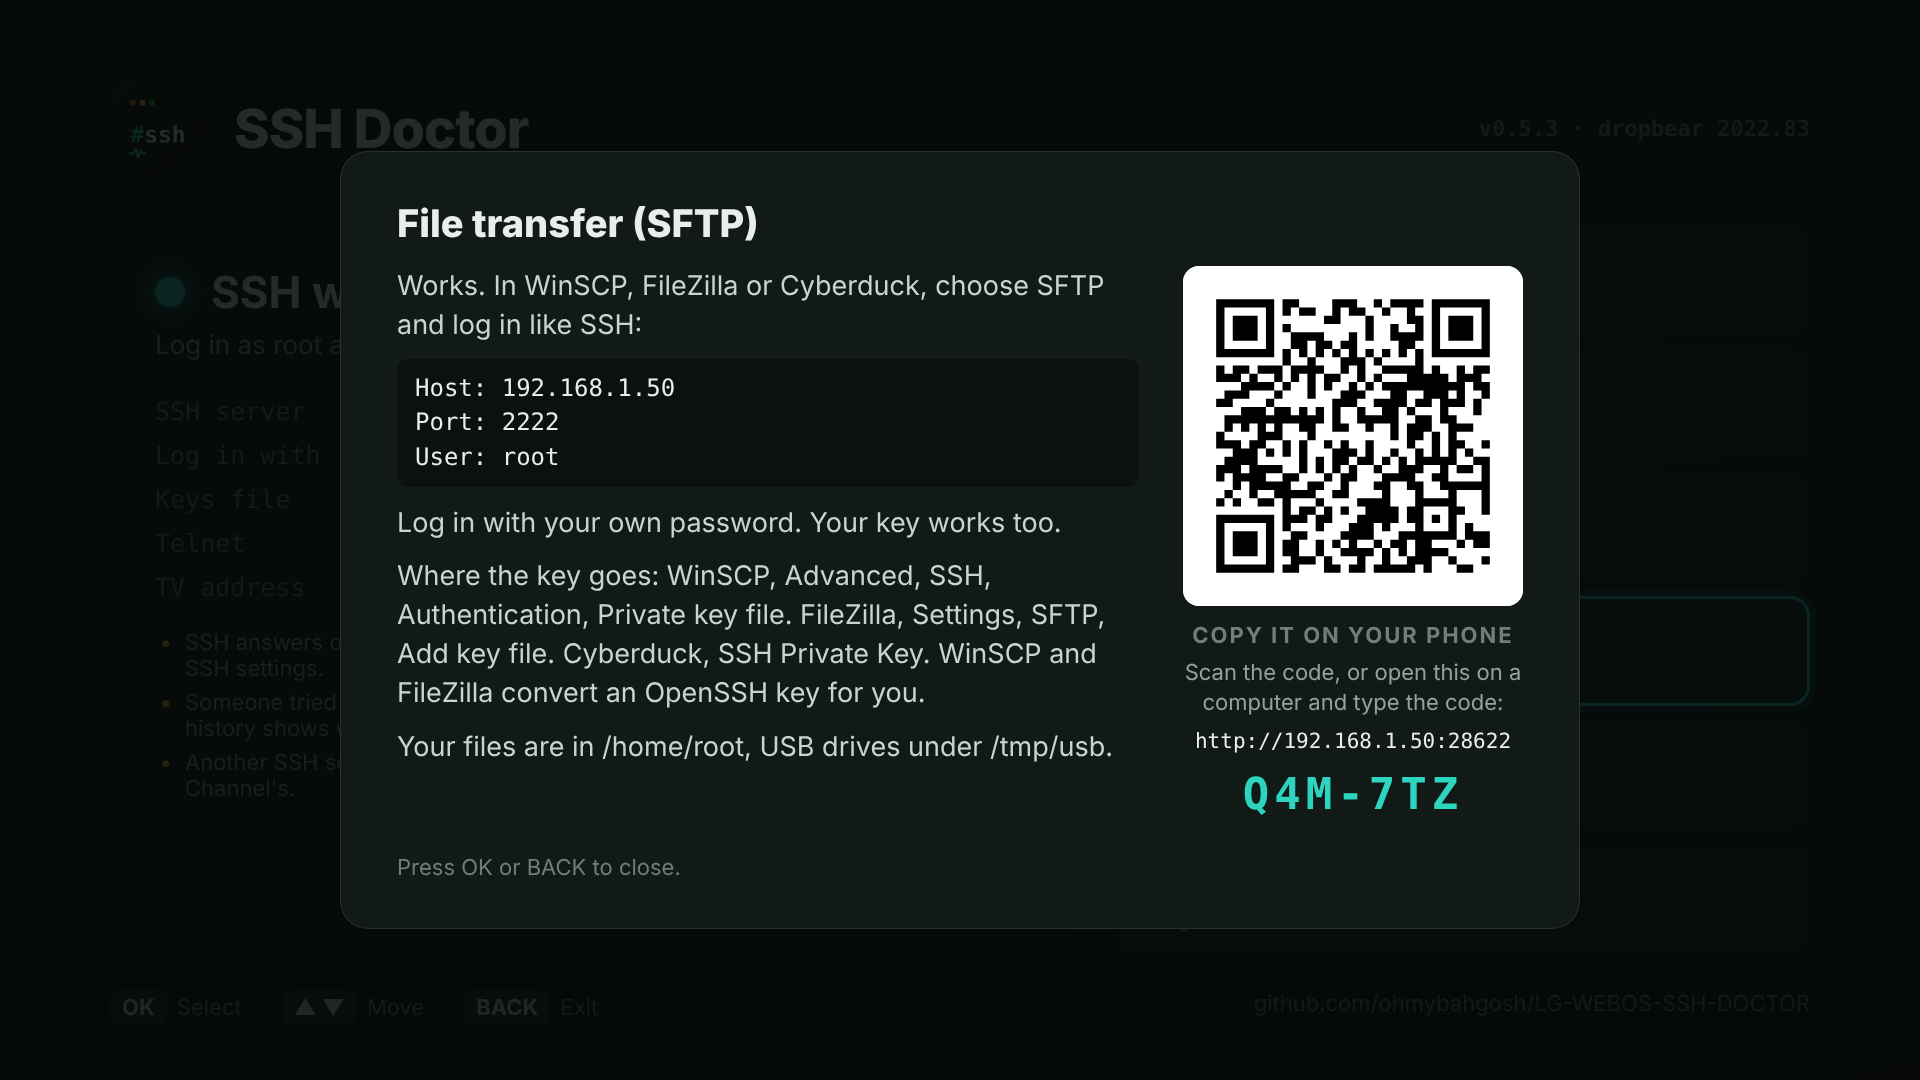
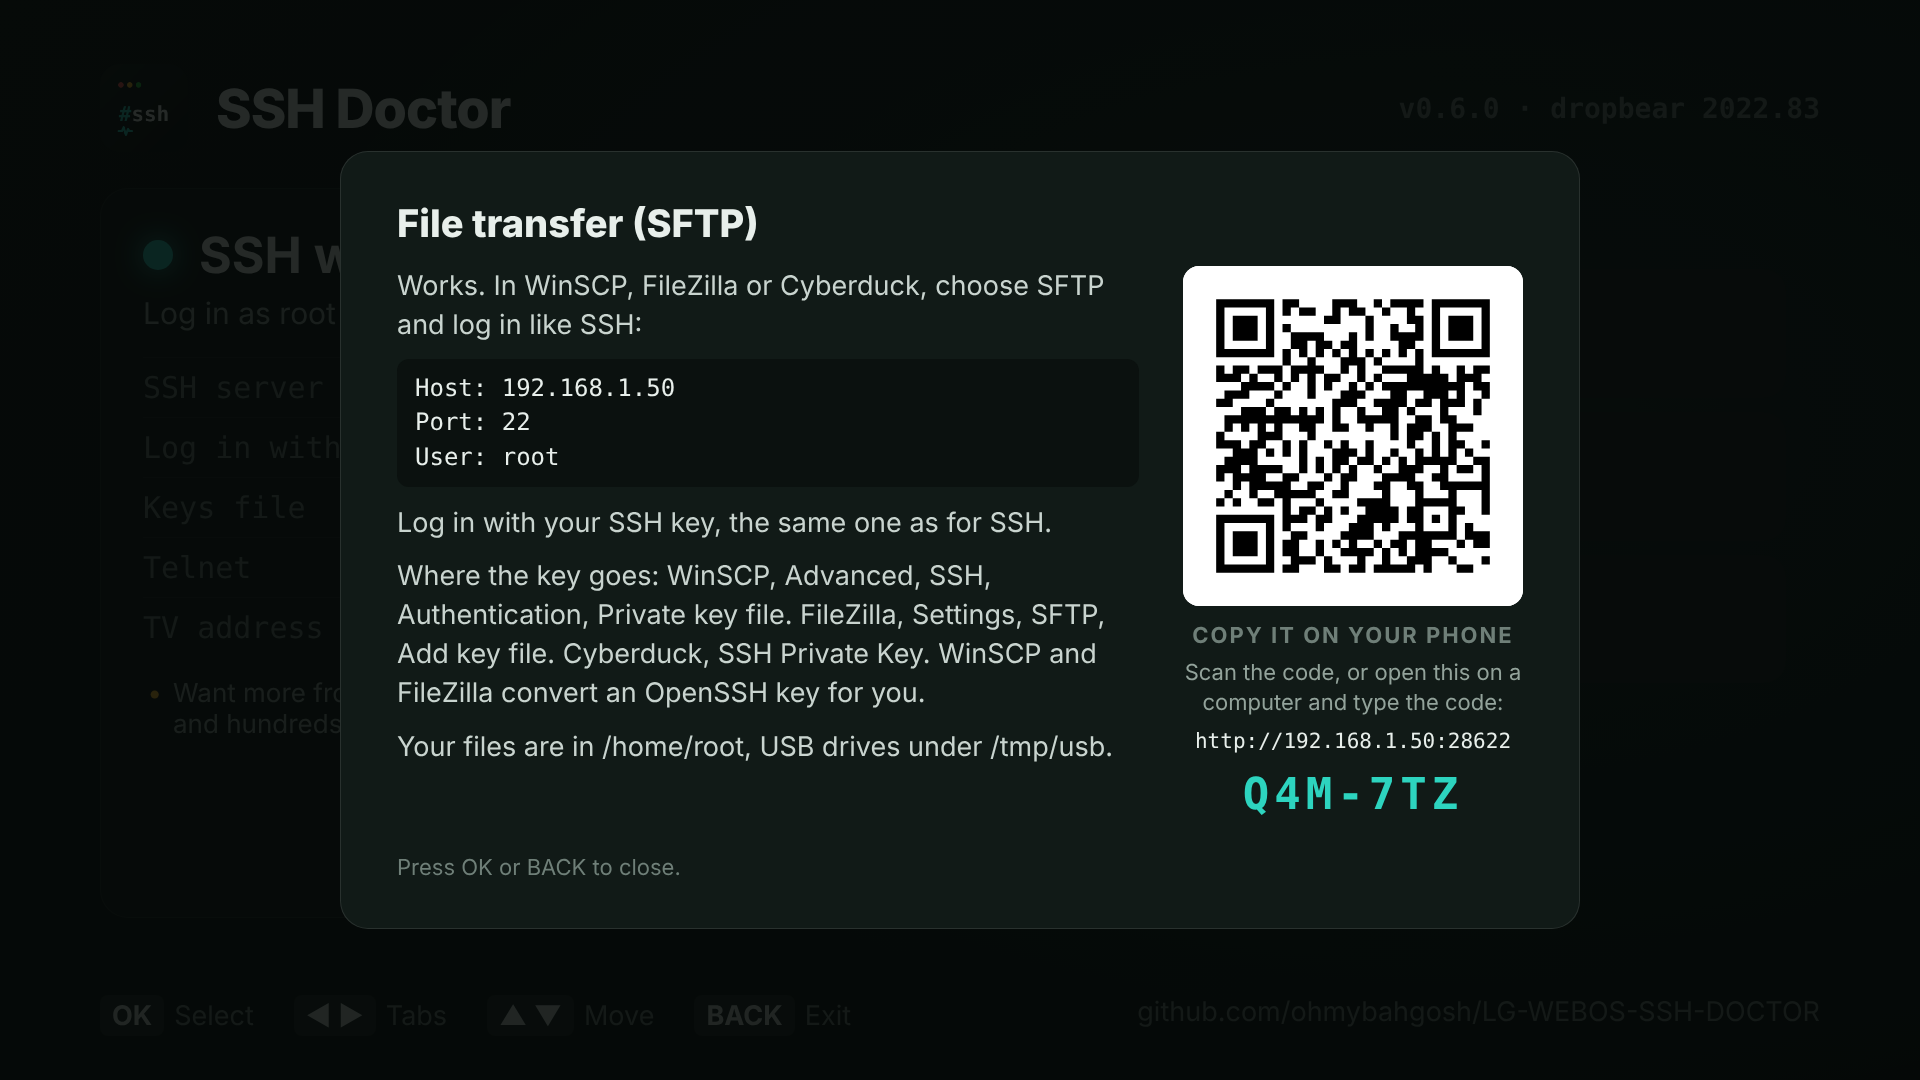
README: 0.6.0 screenshots with the tabs, and the social preview

diff --git a/README.md b/README.md
@@ -108,7 +108,7 @@ After a key is added, the pairing page also offers a ready-made `~/.ssh/config` 
 
 <p><img src="assets/screenshots/tv-howto.png" width="70%" alt="How to log in on the TV, with a QR code to copy it on a phone"> <img src="assets/screenshots/info-phone.png" width="24%" alt="The copy page on a phone: the login command, an SSH config and the TV's known_hosts lines, each with a Copy button"></p>
 
-<p><img src="assets/screenshots/tv-sftp.png" width="49%" alt="File transfer (SFTP): the host, port and user, whether to use your key or password, and where WinSCP, FileZilla and Cyberduck take a key"> <img src="assets/screenshots/tv-update.png" width="49%" alt="The main screen offering Update to v0.5.0"></p>
+<p><img src="assets/screenshots/tv-sftp.png" width="49%" alt="File transfer (SFTP): the host, port and user, whether to use your key or password, and where WinSCP, FileZilla and Cyberduck take a key"> <img src="assets/screenshots/tv-update.png" width="49%" alt="The main screen with a newer release out, and More marked"></p>
 
 ## What it will never do
 
